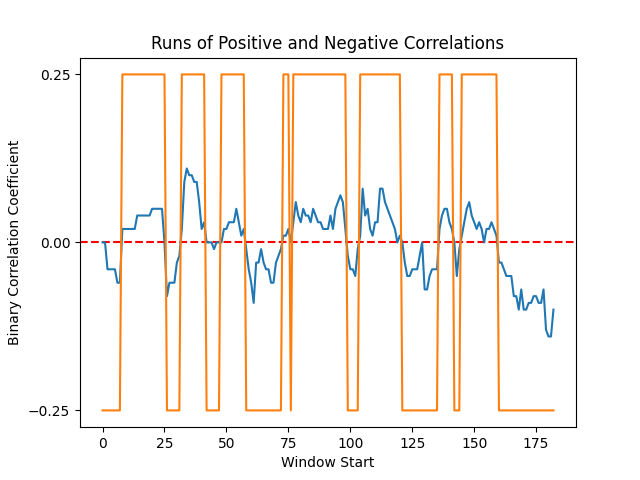
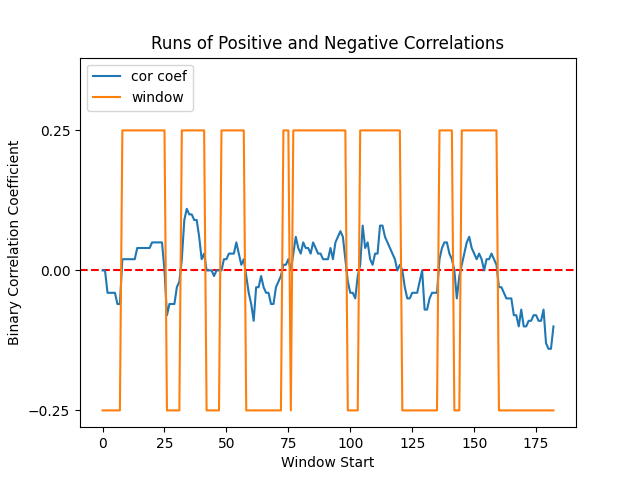
plots

diff --git a/main.py b/main.py
@@ -10,10 +10,12 @@ def plot(p, b_p):
     plt.yticks([-0.25, 0, 0.25])
 
     plt.axhline(y=0, color="r", linestyle='dashed')
-    plt.plot(p[1], label="")
-    plt.plot(b_p[1], label="")
+    plt.plot(p[1], label="cor coef")
+    plt.plot(b_p[1], label="window")
+    plt.plot(0.35)
 
-    plt.savefig("plot1.png")
+    plt.legend(loc="upper left")
+    plt.savefig('plot1.png')
 
 
 def intervals(s, min):
